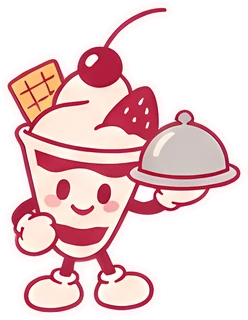
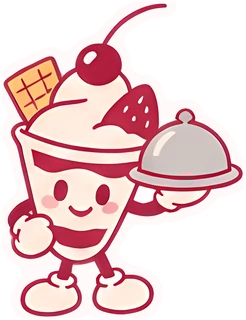
Preview: Parfi as tilted die-cut stickers in varied sizes (hero large, tea medium, cloche small; walkers get the sticker edge upright)
Claude-Session: https://claude.ai/code/session_01Js2G2qTsD2bt3n8axyDWcU

Changed region(s): [[0.0, 0.0, 0.9959, 1.0], [0.2846, 0.5, 0.3699, 0.5312], [0.313, 0.4375, 0.3415, 0.4688]]

diff --git a/index.html b/index.html
@@ -593,16 +593,19 @@ summary.grp-head{list-style:none}
 .brand .logo,.brand-in .logo{height:42px;width:auto;margin:-6px 0 -8px;filter:drop-shadow(0 2px 3px rgba(80,0,30,.25))}
 .brand-in{display:inline-flex;align-items:center;gap:8px}
 .parfi{position:absolute;pointer-events:none;user-select:none;height:auto;z-index:2}
+/* stickers: die-cut cream edge (in the image), a slight lift off the page, each slapped on at its own angle */
+.parfi-sticker{transform:rotate(var(--tilt,0deg));filter:drop-shadow(0 1px 0 rgba(120,10,50,.16)) drop-shadow(0 9px 12px rgba(60,0,20,.22))}
+.parfi-step{filter:drop-shadow(0 1px 0 rgba(120,10,50,.14)) drop-shadow(0 5px 6px rgba(60,0,20,.16))}
 /* hero: waves hello at the foot of the arch */
-.parfi-hero{width:auto;height:min(200px,30%);right:4%;bottom:0;transform-origin:50% 100%;animation:parfiWave 3.2s ease-in-out infinite;filter:drop-shadow(0 8px 10px rgba(60,0,20,.25))}
-@keyframes parfiWave{0%,100%{transform:rotate(0)}20%{transform:rotate(-5deg)}40%{transform:rotate(3deg)}60%{transform:rotate(-3deg)}80%{transform:rotate(1deg)}}
+.parfi-hero{--tilt:-9deg;width:auto;height:min(232px,34%);right:3%;bottom:14px;transform-origin:50% 90%;animation:parfiWave 3.4s ease-in-out infinite}
+@keyframes parfiWave{0%,100%{transform:rotate(var(--tilt,0deg))}20%{transform:rotate(calc(var(--tilt,0deg) - 4deg))}40%{transform:rotate(calc(var(--tilt,0deg) + 3deg))}60%{transform:rotate(calc(var(--tilt,0deg) - 2deg))}80%{transform:rotate(calc(var(--tilt,0deg) + 1deg))}}
 /* drinks menu: serving tea beside the tabs */
 .carte .title{position:relative}
-.parfi-tea{height:128px;width:auto;right:2%;bottom:-118px;animation:parfiBob 4s ease-in-out infinite}
-@keyframes parfiBob{50%{transform:translateY(-6px) rotate(-1.5deg)}}
+.parfi-tea{--tilt:8deg;height:156px;width:auto;right:1%;bottom:-140px;animation:parfiBob 4s ease-in-out infinite}
+@keyframes parfiBob{0%,100%{transform:rotate(var(--tilt,0deg))}50%{transform:translateY(-6px) rotate(calc(var(--tilt,0deg) - 2deg))}}
 /* brunch: presenting a cloche, standing on the card's top edge */
 .brunch-wrap{position:relative;margin-top:24px}
-.parfi-cloche{height:132px;width:auto;right:5%;bottom:calc(100% - 6px);animation:parfiBob 4.6s ease-in-out infinite;z-index:3}
+.parfi-cloche{--tilt:-7deg;height:118px;width:auto;right:5%;bottom:calc(100% - 44px);animation:parfiBob 4.6s ease-in-out infinite;z-index:3}
 /* strolling: walks to one end, pauses, turns round, walks back */
 .carte{position:relative}
 .parfi-lane{position:absolute;left:0;right:0;pointer-events:none;z-index:2;padding-inline:max(16px,calc((100% - 1160px)/2 + 20px))}
@@ -621,9 +624,9 @@ footer .wrap{padding-top:124px}
 /* phones: smaller, and nothing covers the hero buttons */
 @media (max-width:760px){
   .brand .logo,.brand-in .logo{height:38px}
-  .parfi-hero{height:92px;right:4%;bottom:auto;top:calc(100% - 92px - var(--hero-btns,150px))}
-  .parfi-tea{height:74px;right:-6px;bottom:auto;top:-6px}
-  .parfi-cloche{height:92px;right:3%;bottom:calc(100% - 58px)}
+  .parfi-hero{height:112px;right:2%;bottom:auto;top:calc(100% - 112px - var(--hero-btns,150px))}
+  .parfi-tea{height:84px;right:-8px;bottom:auto;top:-10px}
+  .parfi-cloche{height:80px;right:3%;bottom:calc(100% - 50px)}
   .brunch-wrap{margin-top:44px}
   .carte{padding-bottom:132px}
   .carte .parfi-lane{height:78px}
@@ -641,13 +644,13 @@ footer .wrap{padding-top:124px}
 }
 /* in the basket, order page and booking confirmation */
 .parfi-say{display:block;width:auto;pointer-events:none}
-.empty-cart .parfi-say{height:118px;margin-bottom:-4px}
+.empty-cart .parfi-say{height:124px;margin:4px 0 -2px;transform:rotate(-7deg);filter:drop-shadow(0 1px 0 rgba(120,10,50,.16)) drop-shadow(0 7px 10px rgba(60,0,20,.18))}
 .trk-head{display:flex;align-items:center;gap:14px}
 .trk-head .trk-msg{flex:1;min-width:0}
 .trk-head .parfi-say{height:92px;flex:none;animation:parfiBob 3.6s ease-in-out infinite}
 .trk.st-ready .trk-head .parfi-say{animation:parfiCheer .9s ease-in-out infinite alternate}
 @keyframes parfiCheer{from{transform:translateY(0) rotate(-3deg)}to{transform:translateY(-6px) rotate(3deg)}}
-.done-parfi{height:120px;width:auto;justify-self:start;animation:parfiCheer 1s ease-in-out 3 alternate}
+.done-parfi{--tilt:6deg;height:132px;width:auto;justify-self:start;transform:rotate(var(--tilt));filter:drop-shadow(0 1px 0 rgba(120,10,50,.16)) drop-shadow(0 8px 12px rgba(60,0,20,.2));animation:parfiBob 2.6s ease-in-out 2}
 @media (prefers-reduced-motion:reduce){ .parfi-say,.done-parfi{animation:none!important} }
 /* ---------- privacy notice ---------- */
 .priv{display:grid;gap:16px;padding:18px 0}
@@ -770,7 +773,7 @@ footer .wrap{padding-top:124px}
     </div>
     <div class="hero-art" aria-hidden="true">
       <div class="arch"><img src="img/miss-coco-cherry.webp" alt="" width="387" height="960"></div>
-      <img class="parfi parfi-hero" src="img/parfi/parfi-wave-sticker.webp" alt="" width="235" height="320">
+      <img class="parfi parfi-sticker parfi-hero" src="img/parfi/parfi-wave-sticker.webp" alt="" width="291" height="400">
     </div>
   </div>
 
@@ -851,7 +854,7 @@ footer .wrap{padding-top:124px}
       <div class="title">
         <span class="eyebrow">AISU Café &amp; Parfaiterie</span>
         <h2 data-i18n="menu.title">La Carte</h2>
-        <img class="parfi parfi-tea" src="img/parfi/parfi-tea.webp" alt="" aria-hidden="true" width="222" height="320">
+        <img class="parfi parfi-sticker parfi-tea" src="img/parfi/parfi-tea-sticker.webp" alt="" aria-hidden="true" width="223" height="320">
         <p data-i18n="menu.sub">Espressos, lattes, matcha, thés glacés et jus pressés à froid. Prix en ariary.</p>
       </div>
       <div class="tabs" role="tablist" aria-label="La carte">
@@ -862,7 +865,7 @@ footer .wrap{padding-top:124px}
       <p class="carte-hint" data-i18n="menu.hint">Touchez un prix pour l'ajouter à votre commande.</p>
       <div class="carte-cols" id="carteCols" role="tabpanel" aria-labelledby="tab-cafes"></div>
     </div>
-    <div class="parfi-lane" aria-hidden="true"><div class="parfi-track"><div class="parfi-turn"><img class="parfi-step" src="img/parfi/parfi-walk.webp" alt="" width="185" height="320"></div></div></div>
+    <div class="parfi-lane" aria-hidden="true"><div class="parfi-track"><div class="parfi-turn"><img class="parfi-step" src="img/parfi/parfi-walk-sticker.webp" alt="" width="187" height="320"></div></div></div>
   </section>
 
   <div class="checks" aria-hidden="true" data-checks></div>
@@ -875,7 +878,7 @@ footer .wrap{padding-top:124px}
         <span class="rule-heart"><svg class="heart"><use href="#heart"/></svg></span>
       </div>
       <div class="brunch-wrap">
-      <img class="parfi parfi-cloche" src="img/parfi/parfi-cloche-sticker.webp" alt="" aria-hidden="true" width="248" height="320">
+      <img class="parfi parfi-sticker parfi-cloche" src="img/parfi/parfi-cloche-sticker.webp" alt="" aria-hidden="true" width="246" height="320">
       <div class="brunch">
         <div class="brunch-side on-wine">
           <h3>Le Brunch</h3>

diff --git a/assets/site.js b/assets/site.js
@@ -347,7 +347,7 @@
     $('#cartTitle').textContent = view==='checkout' ? t('cart.checkout') : t('cart.title');
     const act=view==='cart'?activeOrders():[];
     const mine = act.length ? `<div class="mine"><p class="sub-h">${t('trk.mine')}</p>${act.map(o=>`<button type="button" class="mine-row" data-track="${esc(o.id)}" data-st="${esc(isLate(o)?'late':statusOf(o))}"><span class="dot"></span><span class="tx"><b>${esc(o.ref)}</b><span>${esc(whenText(o.day,o.mins))} · ${esc(t('trk.s.'+(isLate(o)?'late':statusOf(o))))}</span></span><span class="go">${t('trk.see')}</span></button>`).join('')}</div>` : '';
-    if(!cart.length){ body.innerHTML=mine+`<div class="empty-cart"><img class="parfi-say" src="img/parfi/parfi-curious.webp" alt="" width="136" height="260"><p>${t('cart.empty')}</p><a class="btn btn-fill" href="#parfaits" data-close>${t('cart.browse')}</a></div>`; foot.innerHTML=''; foot.hidden=true; return; }
+    if(!cart.length){ body.innerHTML=mine+`<div class="empty-cart"><img class="parfi-say" src="img/parfi/parfi-curious-sticker.webp" alt="" width="138" height="260"><p>${t('cart.empty')}</p><a class="btn btn-fill" href="#parfaits" data-close>${t('cart.browse')}</a></div>`; foot.innerHTML=''; foot.hidden=true; return; }
     foot.hidden=false;
     const tot=`<div class="totals"><div class="grand"><span>${t('cart.total')}</span><span>${ar(total())}</span></div></div>`;
     if(view==='cart'){
@@ -710,7 +710,7 @@
         booking=false; btn.disabled=!!liveSettings().bookingsPaused; btn.removeAttribute('aria-busy'); btn.textContent=t('res.submit');
       }
     }
-    done.innerHTML=`<img class="done-parfi" src="img/parfi/parfi-yay.webp" alt="" width="233" height="260"><p class="fine">${t('done.ref')}</p><div class="ref">${bookingRef}</div>
+    done.innerHTML=`<img class="done-parfi" src="img/parfi/parfi-yay-sticker.webp" alt="" width="234" height="260"><p class="fine">${t('done.ref')}</p><div class="ref">${bookingRef}</div>
       <dl class="summary"><dt>${t('done.date')}</dt><dd>${esc(niceDate(dv))}</dd><dt>${t('done.time')}</dt><dd>${fmt(chosen)}</dd><dt>${t('done.guests')}</dt><dd>${party}</dd>
       <dt>${t('done.for')}</dt><dd>${esc(occasion)}</dd><dt>${t('done.seat')}</dt><dd>${t('seat.'+seatVal)}</dd><dt>${t('done.name')}</dt><dd>${esc(name)}</dd></dl>
       <p class="fine">${t(live?'done.noteLive':'done.note')}</p>
